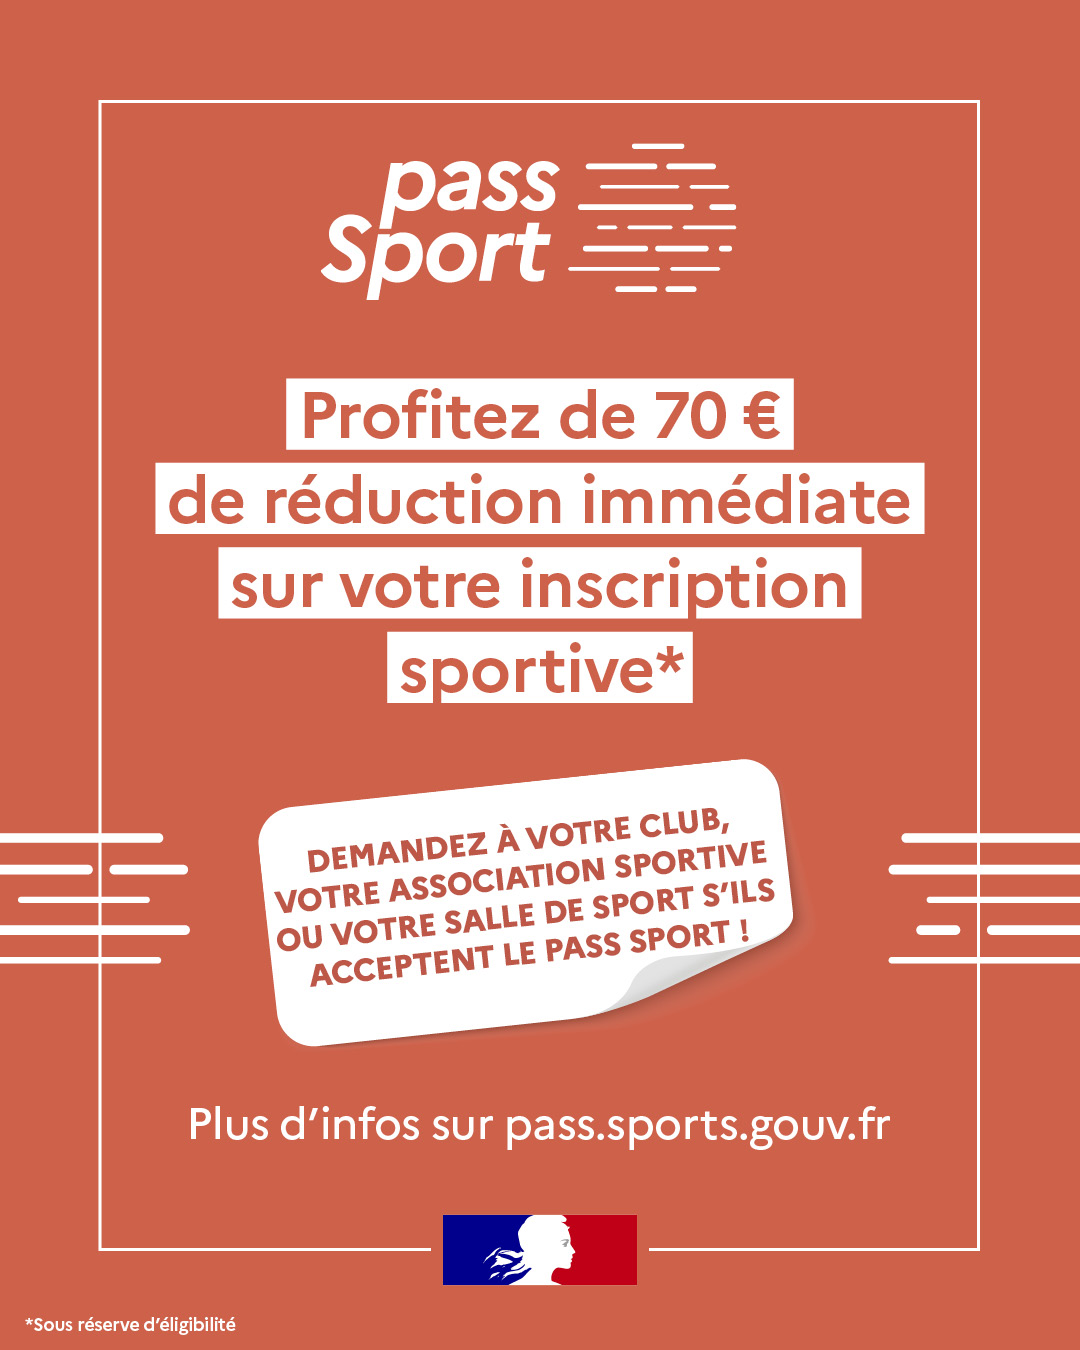
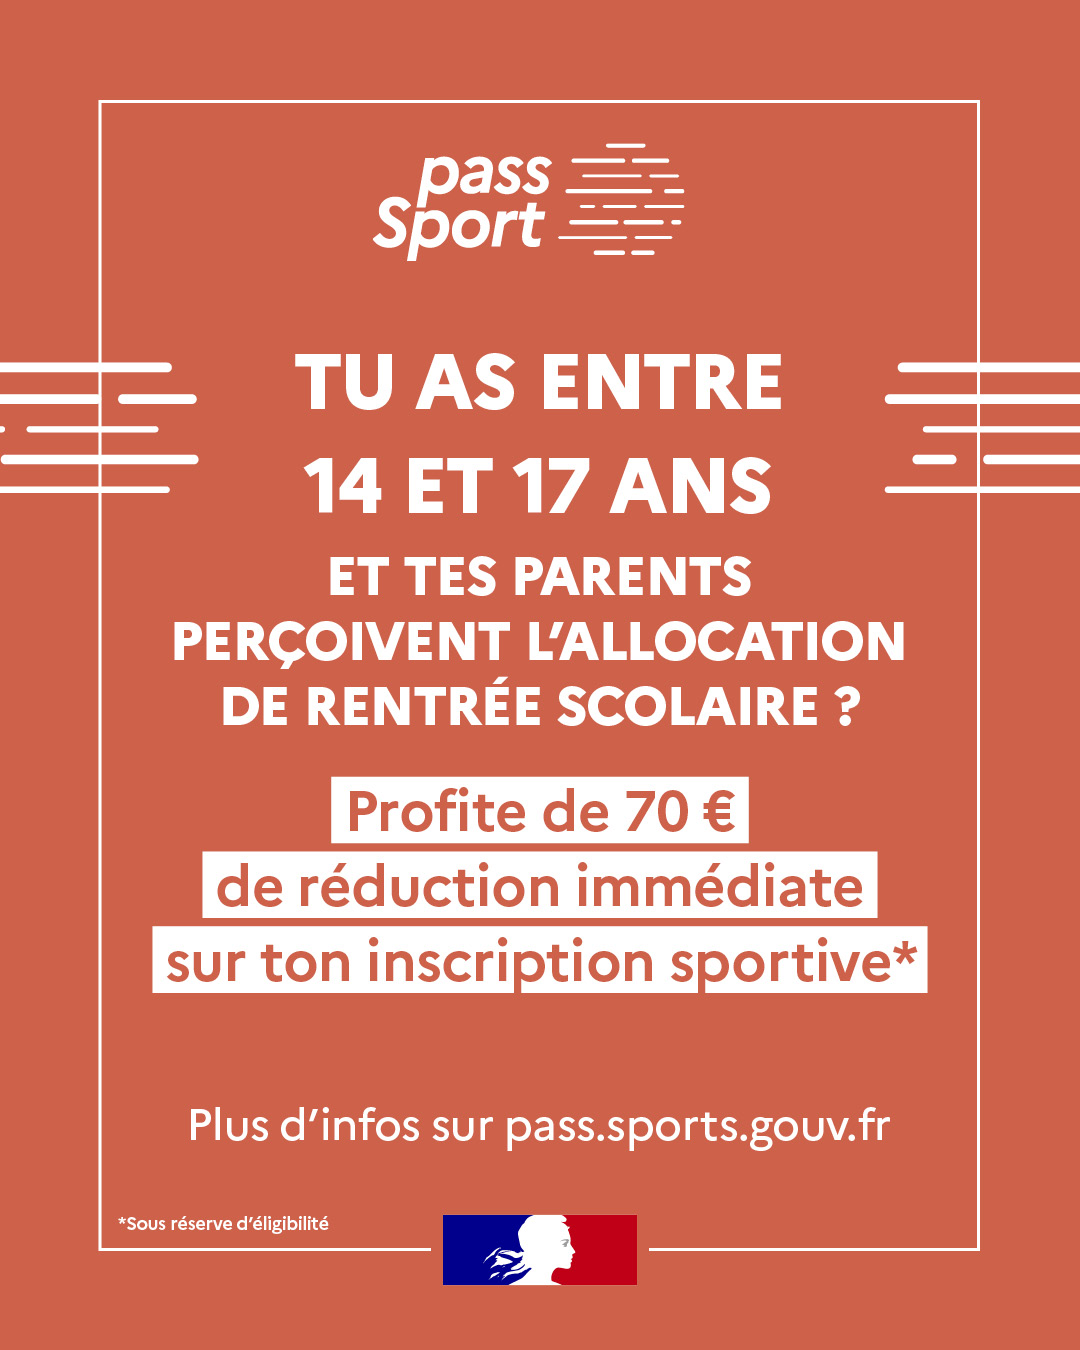
chore: ars vignet updated

diff --git a/site/src/app/v2/partenaires/components/AccordionsSocialMediasVisuals.tsx b/site/src/app/v2/partenaires/components/AccordionsSocialMediasVisuals.tsx
@@ -36,7 +36,7 @@ export default function AccordionsSocialMediasVisuals() {
             <DownloadLink
               href="/assets/partenaires/reseaux-sociaux/visuel_pour_communiquer_aupres_des_jeunes.jpg"
               label="Télécharger le visuel à destination des 14-17 ans bénéficiaires de l'ARS"
-              details="jpg ~ 258 KB"
+              details="jpg ~ 260 KB"
             />
           </li>
           <li>
